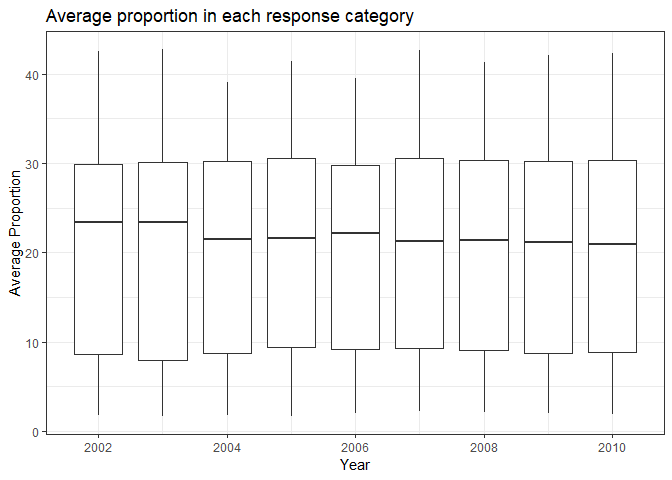
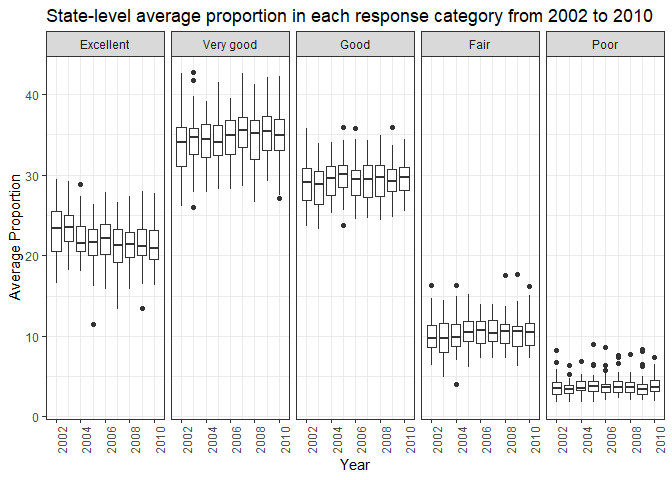
Adjust solution for Q4 in Problem 1; add facets and explanations

diff --git a/p8105_hw3_jy2944.md b/p8105_hw3_jy2944.md
@@ -114,15 +114,20 @@ The above table suggests: among the years 2002, 2006, and 2010, the mean of the 
 
 ``` r
 brfss_data %>% 
+  # group by year, state, and response
   group_by(year, state_abbr, response) %>% 
   summarise(mean = mean(data_value, na.rm = TRUE)) %>% 
+  # Boxplot, group by year
   ggplot(aes(x = year, y = mean, group = year)) +
   geom_boxplot() +
   labs(
-    title = "Average proportion in each response category", 
+    title = "State-level average proportion in each response category from 2002 to 2010", 
     x = "Year", 
     y = "Average Proportion"
-    ) 
+    ) +
+  # faceting: divide the plot into 5 subplots based on response category
+  facet_grid(. ~ response) +
+  theme(axis.text.x = element_text(angle = 90))
 ```
 
 ![](p8105_hw3_jy2944_files/figure-markdown_github/p1_4-1.png)
